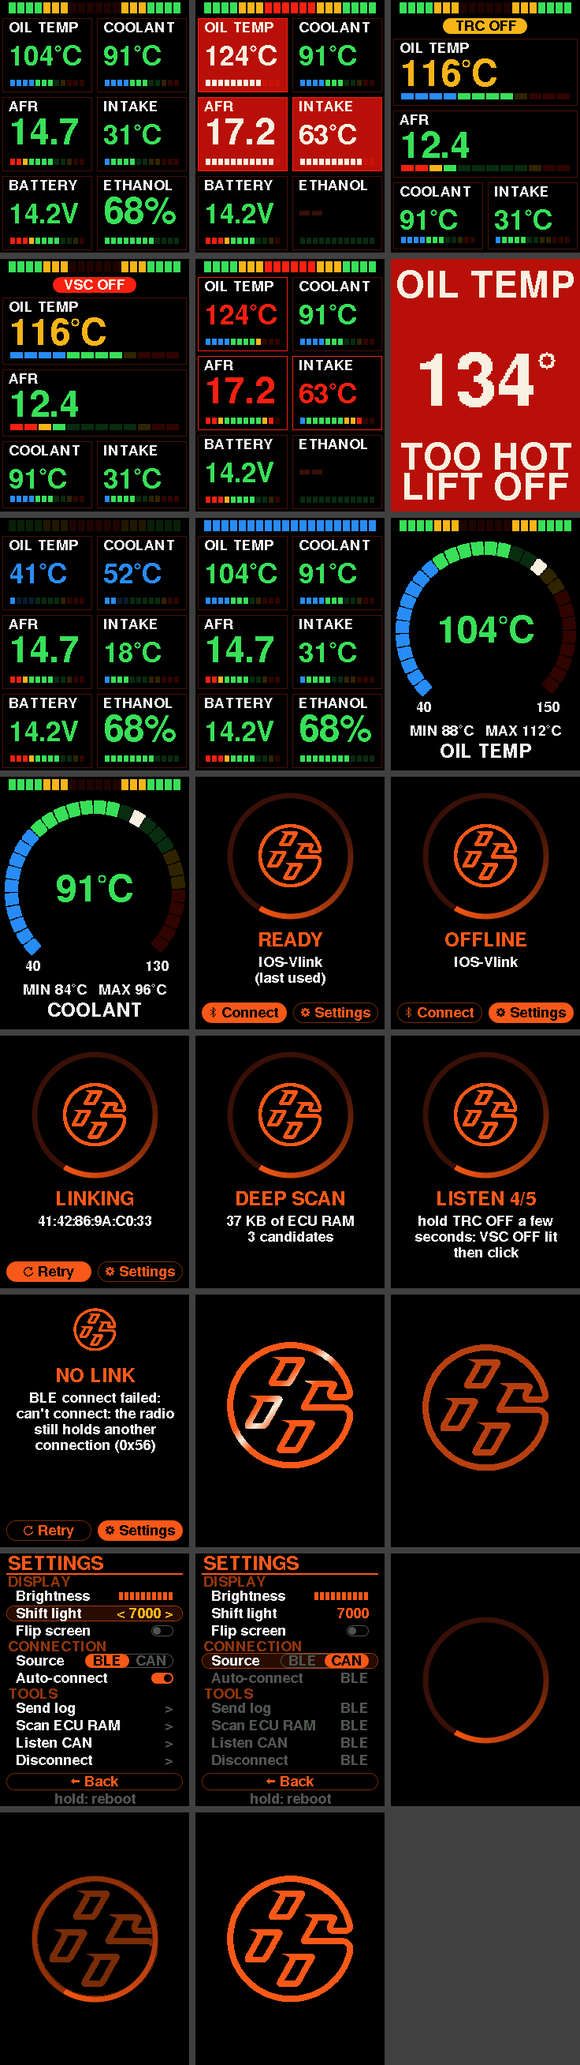
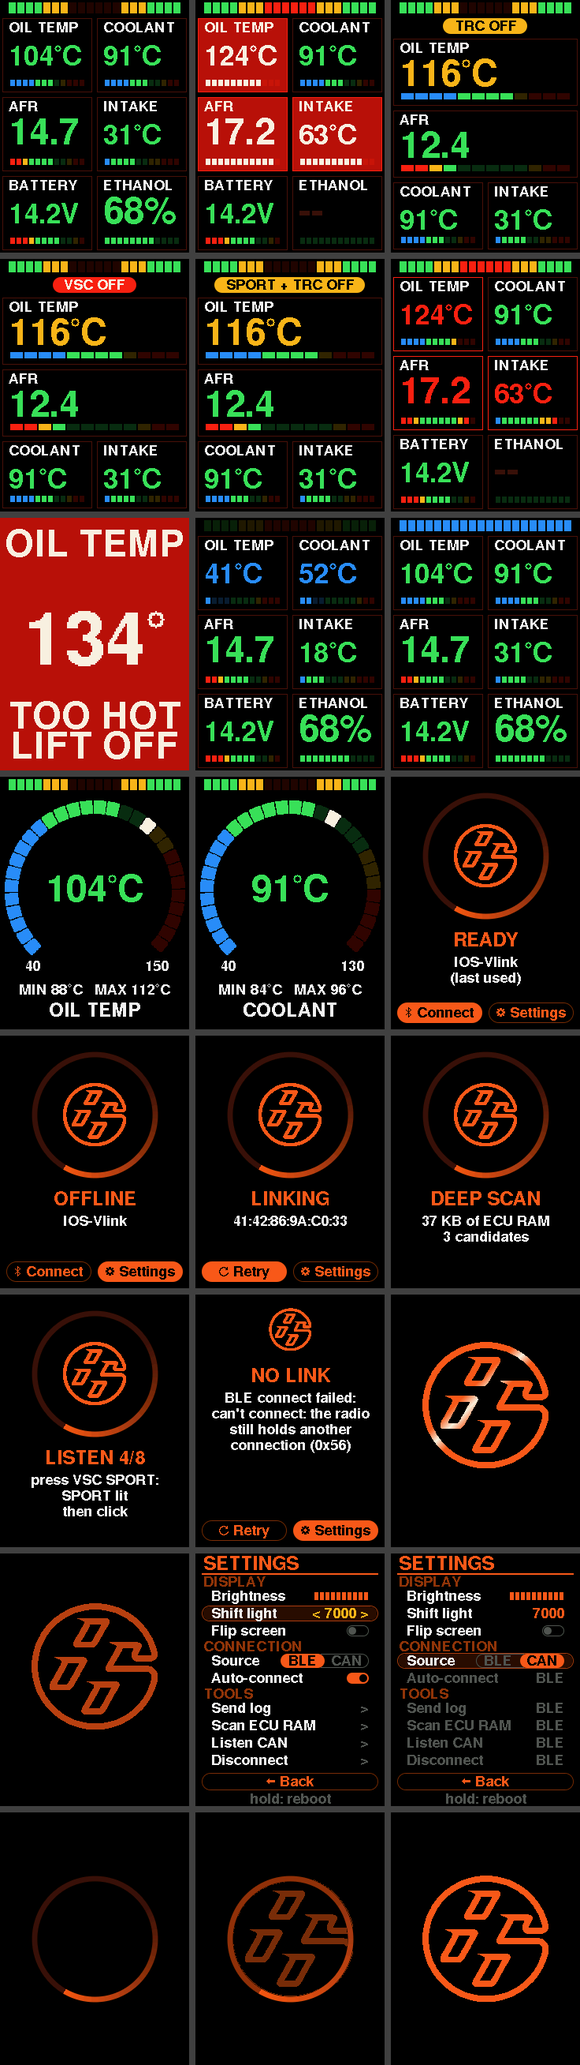
feat: the stability control's 5 modes (TRC OFF and VSC SPORT, alone, both, everything off): the guided Listen CAN goes through all of them in 8 steps, a badge for each

diff --git a/src/app/obd/sniff.h b/src/app/obd/sniff.h
@@ -5,8 +5,9 @@
 
 #include "obd.h"
 
-// sniff_t finds the CAN bits behind the VSC / TRC OFF button by
-// comparing the bus in each of its modes, one step at a time: the driver
+// sniff_t finds the CAN bits behind the stability control's two buttons,
+// TRC OFF and VSC SPORT, by comparing the bus in each of their modes,
+// one step at a time: the driver
 // sets a mode (sniff_steps' prompt), clicks, and the bus is listened to.
 // Within a step nobody touches anything: every bit that changes then is
 // noise (counters, RPM, temperatures). A candidate is a bit, quiet within
@@ -16,20 +17,24 @@
 // with a rolling counter (a first run, ID by ID, found 15 of 36 IDs noisy
 // and no candidate).
 
-#define SNIFF_MAX_IDS 160
-#define SNIFF_STEPS 5
+// The bus showed 36 IDs through the dongle: room for more than twice that.
+#define SNIFF_MAX_IDS 96
+// At most 8: sniff_id_t.seen holds a bit per step.
+#define SNIFF_STEPS 8
 // sniff_log_candidates logs at most this many candidates.
 #define SNIFF_REPORTED 24
 
-typedef enum { SNIFF_ALL_ON, SNIFF_TRC_OFF, SNIFF_ALL_OFF, SNIFF_MODES } sniff_mode_t;
+// The car's modes: everything on; TRC OFF (a short press); VSC SPORT (its
+// own button); both; everything off (TRC OFF held a few seconds).
+typedef enum { SNIFF_ALL_ON, SNIFF_TRC_OFF, SNIFF_SPORT, SNIFF_SPORT_TRC_OFF, SNIFF_ALL_OFF, SNIFF_MODES } sniff_mode_t;
 
 typedef struct {
     const char *prompt; // what the driver does before clicking, for the status screen
     sniff_mode_t mode;
 } sniff_step_t;
 
-// sniff_steps: everything on, TRC OFF (a short press), back on, everything
-// off (TRC OFF held a few seconds), back on.
+// sniff_steps: each mode in turn, back to everything on between them
+// (TRC OFF, VSC SPORT, both, everything off).
 extern const sniff_step_t sniff_steps[SNIFF_STEPS];
 
 typedef struct {
@@ -50,6 +55,7 @@ typedef struct {
 void sniff_add_frame(sniff_t *s, const can_frame_t *f);
 
 // sniff_log_candidates logs a summary, then each candidate as
-// "sniff: <ID> bits <mask>: on <data> trc <data> off <data>", the mask
-// over its bytes, the data from each mode's first step.
+// "sniff: <ID> bits <mask>: on <data> trc <data> sport <data> sport+trc
+// <data> off <data>", the mask over its bytes, the data from each mode's
+// first step.
 void sniff_log_candidates(const sniff_t *s, void (*log)(void *ctx, const char *line), void *ctx);

diff --git a/test/test_elm_tools.c b/test/test_elm_tools.c
@@ -114,14 +114,14 @@ void test_elm_listen(void) {
     feed_dongle_answer(&e, "OK\r>", 4);
     CHECK(strcmp(last_sent(&d), "ATCM700\r") == 0, "then %s, want ATCM700", last_sent(&d));
     feed_dongle_answer(&e, "OK\r>", 5);
-    CHECK(strstr(s.status, "LISTEN 1/5") && strstr(s.status, "click") && !e.waiting,
+    CHECK(strstr(s.status, "LISTEN 1/8") && strstr(s.status, "click") && !e.waiting,
           "the first step doesn't wait for a click: status %s", s.status);
 
     // 1A0 is a rolling counter; 3B0 the mode alone; 2C0 a counter and,
     // in its next byte, the mode; 4D0 a temperature, a degree more from
     // step 4: it drifts, the steps back to "on" disagree.
-    static const char *const mode_3b0[SNIFF_MODES] = {"AA", "AB", "BB"};
-    static const char *const mode_2c0[SNIFF_MODES] = {"00", "10", "30"};
+    static const char *const mode_3b0[SNIFF_MODES] = {"AA", "AB", "AC", "AD", "BB"};
+    static const char *const mode_2c0[SNIFF_MODES] = {"00", "10", "04", "14", "30"};
     uint32_t t = 10;
     for (int step = 0; step < SNIFF_STEPS; step++) {
         CHECK(elm_listen_click(&e, t), "step %d: the click wasn't taken", step + 1);
@@ -136,9 +136,9 @@ void test_elm_listen(void) {
         }
     }
     CHECK(strcmp(last_sent(&d), "ATZ\r") == 0, "after listening sent %s, want ATZ (session restart)", last_sent(&d));
-    CHECK(strstr(d.logged, "sniff: 3B0 bits 0011: on 00AA trc 00AB off 00BB") != NULL,
+    CHECK(strstr(d.logged, "sniff: 3B0 bits 0017: on 00AA trc 00AB sport 00AC sport+trc 00AD off 00BB") != NULL,
           "3B0 not reported as a candidate:\n%s", d.logged);
-    CHECK(strstr(d.logged, "sniff: 2C0 bits 0030: on 0F00 trc 0F10 off 0F30") != NULL,
+    CHECK(strstr(d.logged, "sniff: 2C0 bits 0034: on 0F00 trc 0F10 sport 0F04 sport+trc 0F14 off 0F30") != NULL,
           "2C0's flag, beside a counter, not reported:\n%s", d.logged);
     CHECK(strstr(d.logged, "sniff: 1A0") == NULL, "1A0, a counter, reported:\n%s", d.logged);
     CHECK(strstr(d.logged, "sniff: 4D0") == NULL, "4D0, drifting, reported:\n%s", d.logged);

diff --git a/src/app/ui/ui_tiles.c b/src/app/ui/ui_tiles.c
@@ -199,13 +199,20 @@ static const tile_t *tile_for(signal_t signal) {
     return &ui_tiles[0];
 }
 
-// draw_track_grid is the gauges with the stability control off, on track:
-// what matters there big (the oil and the AFR across the screen, the
-// coolant and the intake under them), the battery and the ethanol left
-// out, and a badge saying which mode it's in: TRC OFF amber, VSC OFF red.
+// draw_track_grid is the gauges in a sport mode, on track: what matters
+// there big (the oil and the AFR across the screen, the coolant and the
+// intake under them), the battery and the ethanol left out, and a badge
+// saying which mode: VSC SPORT in the accent, TRC OFF (alone or with it)
+// amber, VSC OFF (everything off) red.
 void draw_track_grid(canvas_t *c, const theme_t *t, const state_t *s, int top, drive_mode_t mode, uint32_t now_ms) {
-    const char *label = mode == DRIVE_VSC_OFF ? "VSC OFF" : "TRC OFF";
-    color_t badge = mode == DRIVE_VSC_OFF ? t->danger : t->warning;
+    static const char *const labels[DRIVE_MODES] = {
+        [DRIVE_TRC_OFF] = "TRC OFF",
+        [DRIVE_SPORT] = "VSC SPORT",
+        [DRIVE_SPORT_TRC_OFF] = "SPORT + TRC OFF",
+        [DRIVE_VSC_OFF] = "VSC OFF",
+    };
+    const char *label = labels[mode] ? labels[mode] : "";
+    color_t badge = mode == DRIVE_VSC_OFF ? t->danger : mode == DRIVE_SPORT ? t->accent : t->warning;
     int badge_w = gfx_text_width(label_font, label) + 28;
     fill_round_rect(c, (c->width - badge_w) / 2, top + 3, badge_w, BADGE_HEIGHT, BADGE_HEIGHT / 2, badge,
                     t->background);

diff --git a/src/app/obd/sniff.c b/src/app/obd/sniff.c
@@ -4,12 +4,17 @@
 #include <string.h>
 
 const sniff_step_t sniff_steps[SNIFF_STEPS] = {
-    {"VSC and TRC on:\nno OFF lamp lit", SNIFF_ALL_ON}, {"press TRC OFF briefly:\nTRC OFF lamp lit", SNIFF_TRC_OFF},
-    {"press TRC OFF again:\nlamp out", SNIFF_ALL_ON},   {"hold TRC OFF a few\nseconds: VSC OFF lit", SNIFF_ALL_OFF},
+    {"everything on:\nno lamp lit", SNIFF_ALL_ON},
+    {"press TRC OFF briefly:\nTRC OFF lit", SNIFF_TRC_OFF},
+    {"press TRC OFF again:\nlamp out", SNIFF_ALL_ON},
+    {"press VSC SPORT:\nSPORT lit", SNIFF_SPORT},
+    {"press TRC OFF briefly\ntoo: both lit", SNIFF_SPORT_TRC_OFF},
+    {"VSC SPORT and TRC OFF\nagain: lamps out", SNIFF_ALL_ON},
+    {"hold TRC OFF a few\nseconds: VSC OFF lit", SNIFF_ALL_OFF},
     {"press TRC OFF again:\nlamps out", SNIFF_ALL_ON},
 };
 
-static const char *const mode_names[SNIFF_MODES] = {"on", "trc", "off"};
+static const char *const mode_names[SNIFF_MODES] = {"on", "trc", "sport", "sport+trc", "off"};
 
 void sniff_add_frame(sniff_t *s, const can_frame_t *f) {
     if (f->dlc > 8 || s->step < 0 || s->step >= SNIFF_STEPS) {
@@ -86,7 +91,7 @@ void sniff_log_candidates(const sniff_t *s, void (*log)(void *ctx, const char *l
         }
         candidates += e->seen == every_step && candidate_bits(e, bits);
     }
-    char line[112];
+    char line[200];
     snprintf(line, sizeof line, "sniff: %d IDs seen, %d in every step, %d with noise, %d candidates", s->count,
              complete, noisy, candidates);
     log(ctx, line);

diff --git a/sim/main.c b/sim/main.c
@@ -4,7 +4,7 @@
 // The keyboard stands in for the rotary encoder: arrows turn, space
 // clicks; r shows or hides a READY prompt, as with nothing connected (its
 // Connect clears it; left alone 30s, the screensaver comes on); m steps
-// through the drive modes (normal, TRC off, VSC off).
+// through the drive modes (normal, TRC off, VSC sport, both, VSC off).
 
 #include <SDL.h>
 #include <stdbool.h>
@@ -61,7 +61,8 @@ int main(void) {
                     press = true;
                     break;
                 case SDLK_m:
-                    state_set_drive_mode(&state, (drive_mode_t)((state_drive_mode(&state, SDL_GetTicks()) + 1) % 3),
+                    state_set_drive_mode(&state,
+                                         (drive_mode_t)((state_drive_mode(&state, SDL_GetTicks()) + 1) % DRIVE_MODES),
                                          SDL_GetTicks());
                     break;
                 case SDLK_r:

diff --git a/src/app/data/signals.h b/src/app/data/signals.h
@@ -32,10 +32,10 @@ typedef struct {
 // while it's delivering, or busy with something of its own.
 typedef enum { WAIT_NONE, WAIT_CHOICE, WAIT_RETRY } wait_t;
 
-// drive_mode_t is the stability control's mode, from the TRC OFF button:
-// everything on, TRC off (a short press), everything off (held a few
-// seconds: VSC off too).
-typedef enum { DRIVE_NORMAL, DRIVE_TRC_OFF, DRIVE_VSC_OFF } drive_mode_t;
+// drive_mode_t is the stability control's mode, from its two buttons:
+// everything on; TRC off (a short press on TRC OFF); VSC SPORT (its own
+// button); both; everything off (TRC OFF held a few seconds: VSC off).
+typedef enum { DRIVE_NORMAL, DRIVE_TRC_OFF, DRIVE_SPORT, DRIVE_SPORT_TRC_OFF, DRIVE_VSC_OFF, DRIVE_MODES } drive_mode_t;
 
 // state_t is everything the UI draws. status is the data source's own
 // report while it isn't delivering (scan, connect, failure): while it

diff --git a/src/app/obd/obd.h b/src/app/obd/obd.h
@@ -80,7 +80,10 @@ bool isotp_add_frame(isotp_t *r, const can_frame_t *f);
 // The stability control's mode, broadcast: byte 0 bit 5 set with TRC off
 // (in both off modes), byte 1 bit 3 with VSC off. Found by a single
 // guided Listen CAN on this car (2026-11-16, the only candidate of 36
-// IDs): **unconfirmed** until a second run finds the same bits.
+// IDs): **unconfirmed** until a second run finds the same bits. That run
+// didn't try VSC SPORT: its bit isn't known, so DRIVE_SPORT and
+// DRIVE_SPORT_TRC_OFF are never decoded yet (the next guided listen goes
+// through every mode).
 #define GT86_ID_DRIVE_MODE 0x0D3
 
 // gt86_decode_broadcast handles the broadcast frames above. It returns false for

diff --git a/tools/render_ui.c b/tools/render_ui.c
@@ -80,6 +80,10 @@ static void shot_track_vsc(canvas_t *c) {
     shot_track(c, DRIVE_VSC_OFF);
 }
 
+static void shot_track_sport(canvas_t *c) {
+    shot_track(c, DRIVE_SPORT_TRC_OFF);
+}
+
 static void shot_alarms(canvas_t *c) {
     state_t s = state_with_alarms();
     render_screen(c, &s, (screen_t){0});
@@ -213,6 +217,7 @@ static const shot_t shots[] = {
     {"alarms", shot_alarms},
     {"track_trc", shot_track_trc},
     {"track_vsc", shot_track_vsc},
+    {"track_sport", shot_track_sport},
     {"shot_alarms_unlit", shot_alarms_unlit},
     {"oil_critical", shot_oil_critical},
     {"cold", shot_cold},

diff --git a/CLAUDE.md b/CLAUDE.md
@@ -40,14 +40,14 @@ Data flows one way: **source -> `state_t` -> `ui_render(canvas, state, screen, s
 - Single loop, no RTOS: `pico_cyw43_arch_poll`, so BTstack runs only when `ble_poll_radio` calls `cyw43_arch_poll()`: between frames, and while the DMA pushes one. Nothing may block the loop.
 - A Bluetooth failure says what the code means on the panel, the code after it (`ble_error`: HCI and BTstack codes, "can't connect: the radio still holds another connection (0x56)").
 - `ble.c` is a phase machine: prompt -> start (cyw43 + BTstack) -> scan (30s timeout, matches name hints or `profiles` services, or `ELM_ADDRESS`) -> connect -> GATT discovery (logs every service/characteristic) -> notifications -> `elm_t` session. Writes are "without response"; a command the stack can't take yet stays pending for the next poll.
-- `elm327.c` is a non-blocking ELM327 session: init script (ATZ, echo/spaces off, headers on, ATSP6, ATSH7DF), probes whose raw answers are logged (ATI, ATRV, 0100/0120/0140 supported-PID bitmaps, 010C, and `010C24050F111`: if its answer holds all five PIDs, polling asks for them in one request), then a poll cycle (that one request, or RPM every other request between AFR, throttle, coolant and intake one at a time; ATRV every second, and every 3s the drive mode (0x0D3, broadcast: `elm_mode.c` stops polling for a raw monitor of that ID alone, ATCAF0, ATCRA0D3, ATMA until its first frame or 400ms, then ATCRA, ATCAF1; dropped after 3 monitors without it while the ECU answers), and the engine ECU's own reads: ATSH7E0, 2101 for the oil temperature, `ETHANOL_RAM_READ` for the ethanol %, ATSH7DF, each dropped after 3 answers without its value while the ECU answers the rest). Multi-frame answers are reassembled by `isotp_add_frame`. Timeouts resend `ELM_RETRIES` times. With headers on each reply line is a CAN frame, decoded by `obd_decode_frame` (ECU1 0x7E8, 11bit IDs only). The "1" response-count suffix is dropped if the dongle answers `?`. "Scan ECU RAM" in the settings (`elm_request_ram_scan`) suspends polling to read the engine ECU's RAM and log ethanol % candidates (see below), with its progress as the status. "Listen CAN" (`elm_request_can_listen`, `sniff.c`) looks for the VSC / TRC OFF mode's bits: it prompts 5 steps (everything on, TRC OFF, on, everything off, on), each listened to once the driver clicks (`ble_handle_click` -> `elm_listen_click`); the dongle monitors one window of 256 IDs at a time (ATCAF0, ATCM700, ATCF, ATMA, frames fed line by line as they stream), twice over the bus per step; a bit changing within a step is noise, a candidate is quiet within every step, the same in the "on" steps and different between modes (by bit, not by ID: a flag shares its frame with a rolling counter); the candidates are logged with their data per mode and the session restarts with ATZ. A first run found them in 0x0D3 (byte 0 bit 5 TRC off, byte 1 bit 3 VSC off, byte 3 bit 0 VSC on): one run, unconfirmed.
+- `elm327.c` is a non-blocking ELM327 session: init script (ATZ, echo/spaces off, headers on, ATSP6, ATSH7DF), probes whose raw answers are logged (ATI, ATRV, 0100/0120/0140 supported-PID bitmaps, 010C, and `010C24050F111`: if its answer holds all five PIDs, polling asks for them in one request), then a poll cycle (that one request, or RPM every other request between AFR, throttle, coolant and intake one at a time; ATRV every second, and every 3s the drive mode (0x0D3, broadcast: `elm_mode.c` stops polling for a raw monitor of that ID alone, ATCAF0, ATCRA0D3, ATMA until its first frame or 400ms, then ATCRA, ATCAF1; dropped after 3 monitors without it while the ECU answers), and the engine ECU's own reads: ATSH7E0, 2101 for the oil temperature, `ETHANOL_RAM_READ` for the ethanol %, ATSH7DF, each dropped after 3 answers without its value while the ECU answers the rest). Multi-frame answers are reassembled by `isotp_add_frame`. Timeouts resend `ELM_RETRIES` times. With headers on each reply line is a CAN frame, decoded by `obd_decode_frame` (ECU1 0x7E8, 11bit IDs only). The "1" response-count suffix is dropped if the dongle answers `?`. "Scan ECU RAM" in the settings (`elm_request_ram_scan`) suspends polling to read the engine ECU's RAM and log ethanol % candidates (see below), with its progress as the status. "Listen CAN" (`elm_request_can_listen`, `sniff.c`) looks for the bits of the stability control's 5 modes (its two buttons, TRC OFF and VSC SPORT: everything on, TRC off, VSC sport, both, everything off with TRC OFF held): it prompts 8 steps (on, TRC OFF, on, VSC SPORT, both, on, everything off, on), each listened to once the driver clicks (`ble_handle_click` -> `elm_listen_click`); the dongle monitors one window of 256 IDs at a time (ATCAF0, ATCM700, ATCF, ATMA, frames fed line by line as they stream), twice over the bus per step; a bit changing within a step is noise, a candidate is quiet within every step, the same in the "on" steps and different between modes (by bit, not by ID: a flag shares its frame with a rolling counter); the candidates are logged with their data per mode and the session restarts with ATZ. A first run found them in 0x0D3 (byte 0 bit 5 TRC off, byte 1 bit 3 VSC off, byte 3 bit 0 VSC on): one run, unconfirmed.
 - Connection control: without auto-connect the source waits on READY (`state_t.wait`: the knob picks CONNECT or SETTINGS, `screen_apply_input`) while the radio scans in the background and names the dongle CONNECT connects to straight away (the last one connected to, kept in the settings, if it's around; else the first seen), by name: the advertised one, else the GAP device name (2A00) read at each connection and kept with it, else the address; OFFLINE offers the same choice. On the way to the dongle (starting, scanning, connecting, discovery) and after a failure, the buttons are RETRY (a reboot that connects right away) and SETTINGS (to switch to the CAN source when Bluetooth won't do); auto-connect retries a failure by itself after 5s, held while the settings page is open (`ble_hold_retries`). A status too long for the space above the buttons (an error) gets a compact layout, a small logo and no ring. Nothing connected and no input for `SCREEN_IDLE_MS` (30s), the screensaver (`ui_showcar.c`: the 86's logo, then the logos of the parts on the car (`mise run logos`, kept out of git), one at a time, fading in and out rising, a shine across each, dots for which one) takes the screen in full frames; the next input only wakes it. In the simulator, r shows a READY prompt to try both. `main.c` hands a click to `ble_handle_click` only on the gauges page. A retry is `watchdog_reboot` with `CONNECT_NOW` in watchdog scratch 0, so the next boot connects without asking.
 - Standby: once polling, if the engine ECU hasn't answered anything for `CAR_OFF_MS` (90s), `ble.c` disconnects (so the dongle, always powered by the OBD port, can sleep) and powers the radio off; `main.c` puts the panel to sleep and stops drawing. A click reboots to connect. It saves what software can: a Pico on an always-live supply still draws ~20mA.
 - `screen_t` is what the encoder drives: on the gauges, turning cycles views (grid, then each gauge alone, its value drawn 2-3x by `gfx_text`'s scale instead of a bigger font); a click opens the settings page (one screen, no scrolling: groups DISPLAY, CONNECTION, TOOLS, then a BACK button; values drawn as controls: a segment bar, switches, a BLE | CAN choice, chevrons on actions; buttons (`draw_button`: an icon and a capitalized label, not caps), switches and the row under the cursor are anti-aliased pills (`fill_round_rect`), round like the spinner; brightness, shift light RPM, data source: the BLE dongle or the MCP2515, saved and applied by a reboot when leaving the page, the rows needing the dongle dimmed and inert with CAN; auto-connect, flip; Scan ECU RAM, Listen CAN, Disconnect: `ble_go_offline` lets the dongle go and powers the radio off with the screen on, naming the dongle; a click powers the radio back on and connects straight to it, no reboot), which `main.c` applies at once and saves to flash when leaving the page. A 1s hold reboots.
 - `state_t.status` is the source's report while it isn't delivering: while non-empty, the gauges page draws a status screen (title, wrapped lines, spinner) instead of the tiles. A reading older than its tile's `stale_ms` renders as "--" (2s, 10s for the oil temperature polled every 3s). At power-on `ui_render_boot` shows a spinner whose ring closes into the logo's circle as the logo fades in. The spinner (boot and status screens) is drawn per pixel, anti-aliased, from a quadrant of the ring worked out once (`ring_px`). While it's the only thing moving (the boot animation, a status screen whose text doesn't change), `main.c` draws and pushes only its rows (`ui_spinner_rows`) back to back, about three times the normal frame rate.
 - Data log (`datalog.c`): 32-byte records every 200ms while RPM comes in (the gauges): 8 readings, the throttle last (older records hold 0xFFFF there, read as none), room for 4 more in the record's free bytes without shortening the ring (~950KB, ~100 minutes of driving), a new session each boot, in a flash ring written page by page (a power cut loses under 2s). "Send log" lets the dongle go and makes the dash a BLE peripheral ("GT86 DASH", `dash.gatt`): the page in `web/` (Chrome on Android, served over https for Web Bluetooth: Svelte, Bun's `Bun.serve` with an HTML import, Tailwind through `bun-plugin-tailwind`; `package.json`, `bunfig.toml` and the `Dockerfile` to self-host it are at the root) writes 'S', gets a 4-byte size then the log from its oldest record as notifications, writes 'D' once it has it all (the dash shows "downloaded" and goes back to scanning for the dongle, as a click does, no reboot; only once the phone's disconnection is in: BTstack holds a single connection, `MAX_NR_HCI_CONNECTIONS 1`, and connecting before gets `BTSTACK_MEMORY_ALLOC_FAILED`, 0x56), and sends the raw log to its server (`POST /api/sessions`), which keeps every sample once, keyed by session and time since boot, in SQLite through Drizzle (`web/schema.ts`; `bun run db:generate` writes a migration to `web/drizzle/`, applied when the server starts; `DATA_DIR`, the image's `/data` volume). The page lists the stored sessions (paged, searched by name or number, filtered by the day the server got them: the dash has no clock), names them, and charts each one; theme light, dark or the device's (`theme.ts`, a `.dark` class, the colors as CSS variables); no login: the https reverse proxy authenticates. Its parser in `web/datalog.ts` must follow `datalog.h`'s record layout; `bun test web` checks the store.
 - Thresholds are the `*_RANGE` macros at the top of `src/app/ui/ui.c`; `ui_tiles` wires labels, formats and units onto them.
-- The look copies the GT86's own cluster: black, red-orange around the readings (`accent`), white labels; readings take their band's color: green fine, amber warns, a reading in danger blinks its whole tile red, blue is an engine not warm yet (oil under 80°C, coolant under 70°C: not alarms, every cold start goes through them). From `OIL_CRITICAL` (130°C) the oil temperature takes the whole screen, on every page. With the stability control off (`state_drive_mode`: 0x0D3 decoded by `gt86_decode_broadcast`, from the MCP2515 as it streams or the dongle's monitor; a mode older than 10s counts as normal), the grid becomes the track layout (`draw_track_grid`): oil and AFR across the screen, coolant and intake under them, a TRC OFF (amber) or VSC OFF (red) badge; the views of one gauge alone stay as they are. In the simulator, m steps through the modes. Off the throttle (`state_off_throttle`: the throttle PID 0x11 within `THROTTLE_CLOSED_MARGIN` of its lowest since boot, or so 1s ago) the AFR, lean from the deceleration fuel cut, is drawn white with no alarm; the MCP2515 source requests the throttle and the AFR in turn. Gauges are segments colored by the band each stands for, the unlit ones faintly so the red zone shows at rest; a gauge alone is a round dial like the tachometer, with the session's min and max (`reading_t`, since boot) and its peak marked. No RPM tile (the car's tachometer is in front of the driver): RPM drives the shift light, a race wheel's LED bar across the top of the gauges, 20 narrow LEDs lighting in pairs from both ends over the last 1500 rpm (green, amber, red), all flashing blue from the shift RPM.
+- The look copies the GT86's own cluster: black, red-orange around the readings (`accent`), white labels; readings take their band's color: green fine, amber warns, a reading in danger blinks its whole tile red, blue is an engine not warm yet (oil under 80°C, coolant under 70°C: not alarms, every cold start goes through them). From `OIL_CRITICAL` (130°C) the oil temperature takes the whole screen, on every page. With the stability control off (`state_drive_mode`: 0x0D3 decoded by `gt86_decode_broadcast`, from the MCP2515 as it streams or the dongle's monitor; a mode older than 10s counts as normal), the grid becomes the track layout (`draw_track_grid`): oil and AFR across the screen, coolant and intake under them, a badge: VSC SPORT (the accent), TRC OFF or SPORT + TRC OFF (amber), VSC OFF (red); VSC sport's bit isn't found yet, so 0x0D3 only gives TRC off and VSC off; the views of one gauge alone stay as they are. In the simulator, m steps through the modes. Off the throttle (`state_off_throttle`: the throttle PID 0x11 within `THROTTLE_CLOSED_MARGIN` of its lowest since boot, or so 1s ago) the AFR, lean from the deceleration fuel cut, is drawn white with no alarm; the MCP2515 source requests the throttle and the AFR in turn. Gauges are segments colored by the band each stands for, the unlit ones faintly so the red zone shows at rest; a gauge alone is a round dial like the tachometer, with the session's min and max (`reading_t`, since boot) and its peak marked. No RPM tile (the car's tachometer is in front of the driver): RPM drives the shift light, a race wheel's LED bar across the top of the gauges, 20 narrow LEDs lighting in pairs from both ends over the last 1500 rpm (green, amber, red), all flashing blue from the shift RPM.
 
 Adding a signal: a `signal_t` value, a decoder case in `obd.c`, a tile + range in `ui.c`, a poll entry in `elm327.c` if it's a PID, `simdata.c`, and tests.
 

diff --git a/docs/can-reverse-engineering.md b/docs/can-reverse-engineering.md
@@ -125,26 +125,28 @@ with the oil temperature. Still worth checking on a tank of another
 blend; and it's this tune's RAM layout, a reflash may move it: rescan
 then.
 
-## Finding the VSC / TRC OFF mode on the bus
+## Finding the stability control's modes on the bus
 
-"Listen CAN" on the settings page looks for the bits that tell the
-stability control's 3 modes apart, through the dongle
-(`src/app/obd/sniff.c`): everything on, TRC OFF (a short press of the TRC
-OFF button), everything off (the button held a few seconds).
+The GT86 has two buttons for it: TRC OFF and VSC SPORT. Together they
+make 5 modes: everything on; TRC off (a short press of TRC OFF); VSC
+sport; both; everything off (TRC OFF held a few seconds: VSC off too).
+"Listen CAN" on the settings page looks for the bits that tell them
+apart, through the dongle (`src/app/obd/sniff.c`).
 
 1. Engine running, parked. Click Listen CAN.
-2. The screen prompts each of 5 steps: everything on, TRC OFF, back on,
-   everything off, back on. Do what it says, check the lamp, then click
-   the knob.
-3. Hands off while it listens, about 30s a step, until the next prompt.
+2. The screen prompts each of 8 steps: everything on, TRC OFF, back on,
+   VSC SPORT, VSC SPORT and TRC OFF, back on, everything off, back on.
+   Do what it says, check the lamps, then click the knob.
+3. Hands off while it listens, about 30s a step, until the next prompt:
+   about 5 minutes in all.
 4. `mise run logs`: a `sniff:` line per candidate ID, with the bits that
    tell the modes apart (`bits`, a mask over its bytes) and its data in
-   each mode (`on`, `trc`, `off`).
+   each mode (`on`, `trc`, `sport`, `sport+trc`, `off`).
 
 The dongle can't print the whole bus over BLE, so it listens to 256 IDs
 at a time, 1.5s each, twice over the bus per step. A bit that changes
 within a step is noise. A candidate is a bit quiet within every step,
-the same in the 3 "on" steps, and different between two modes. It works
+the same in the 4 "on" steps, and different between two modes. It works
 bit by bit, because a flag often shares its frame with a rolling
 counter: a first run, ID by ID, found 15 of its 36 IDs noisy and no
 candidate. The steps back to "on" weed out a value drifting along (a
@@ -152,7 +154,8 @@ temperature), except one that ticks exactly once per step: it alternates
 like a flag. A real flag is a bit or two, the same across a second run.
 Run it twice: the right ID comes back both times.
 
-A first run (2026-11-16, parked, engine running) found 36 IDs, 15 with
+A first run (2026-11-16, parked, engine running), through TRC OFF and
+everything off only (it didn't know VSC SPORT), found 36 IDs, 15 with
 noise, and a single candidate, **0x0D3** (7 bytes):
 
 | Mode | Data |
@@ -165,7 +168,8 @@ Its bits read like the modes: byte 0 bit 5 (0x20) set with TRC off (in
 both off modes), byte 1 bit 3 (0x08) set with VSC off, byte 3 bit 0
 (0x01) set while VSC is on. The last byte changes every frame (a
 checksum or a counter, noise). One run only: a second one must find
-the same bits before anything reads them.
+the same bits, and VSC SPORT's. The dash already reads TRC off and VSC
+off from them (`GT86_ID_DRIVE_MODE`).
 
 ## Adding an aftermarket ethanol source
 

diff --git a/TODO.md b/TODO.md
@@ -7,7 +7,7 @@
 - [x] Hooks set up: `mise install` runs `prek install` (mise.toml's postinstall)
 - [x] GitHub Actions CI: the prek hooks (clang-format, Biome, bun check, web and host tests under gcc) and the firmware build (UF2 as an artifact)
 - [ ] Ethanol without wiring: run "Scan ECU RAM" with the engine running, noting OFT's E%, then read the candidates in the logs
-- [ ] VSC / TRC OFF: the first Listen CAN found a single candidate, 0x0D3 (byte 0 bit 5 TRC off, byte 1 bit 3 VSC off, byte 3 bit 0 VSC on); run it a second time to confirm (the dash already reads it: if the badge shows the wrong mode, that's why)
+- [ ] Stability control modes: the first Listen CAN (TRC OFF and everything off only) found 0x0D3 (byte 0 bit 5 TRC off, byte 1 bit 3 VSC off, byte 3 bit 0 VSC on); run the new 8-step one (VSC SPORT and both included) to confirm them and find VSC sport's bit
 - [ ] Check in the car: multi-PID polling (log `polling every PID at once`), snappier gauges
 - [ ] Check in the car: Send log to the phone, acknowledged, back to the gauges
 - [ ] Check in the car: the dongle's name read and shown on READY and OFFLINE, reconnecting from OFFLINE without a reboot
@@ -67,6 +67,6 @@
 - [x] BLE: after Send log, connecting to the dongle waited for nothing: gap_connect 0x56 (BTstack's single connection still the phone's); now it waits for the phone's disconnection; failures name what the code means
 - [ ] Check in the car: Send log, then back to the dongle without 0x56
 - [x] Drive mode read from 0x0D3: the MCP2515 as it streams, the dongle every 3s (a raw monitor of that ID); a track layout with a TRC OFF / VSC OFF badge when off
-- [ ] Check in the car: the badge follows the TRC OFF button (short press, held), the gauges barely slower with the dongle
+- [ ] Check in the car: the badge follows the buttons (TRC OFF short and held; VSC SPORT once its bit is decoded), the gauges barely slower with the dongle
 - [x] CI red since the C moved into folders: `data/` in .gitignore (the log server's) also ignored src/app/data/; anchored at the root
 - [x] Every Bluetooth wait or failure screen: Retry beside Settings (auto-retry held in the settings), a compact layout for long errors
